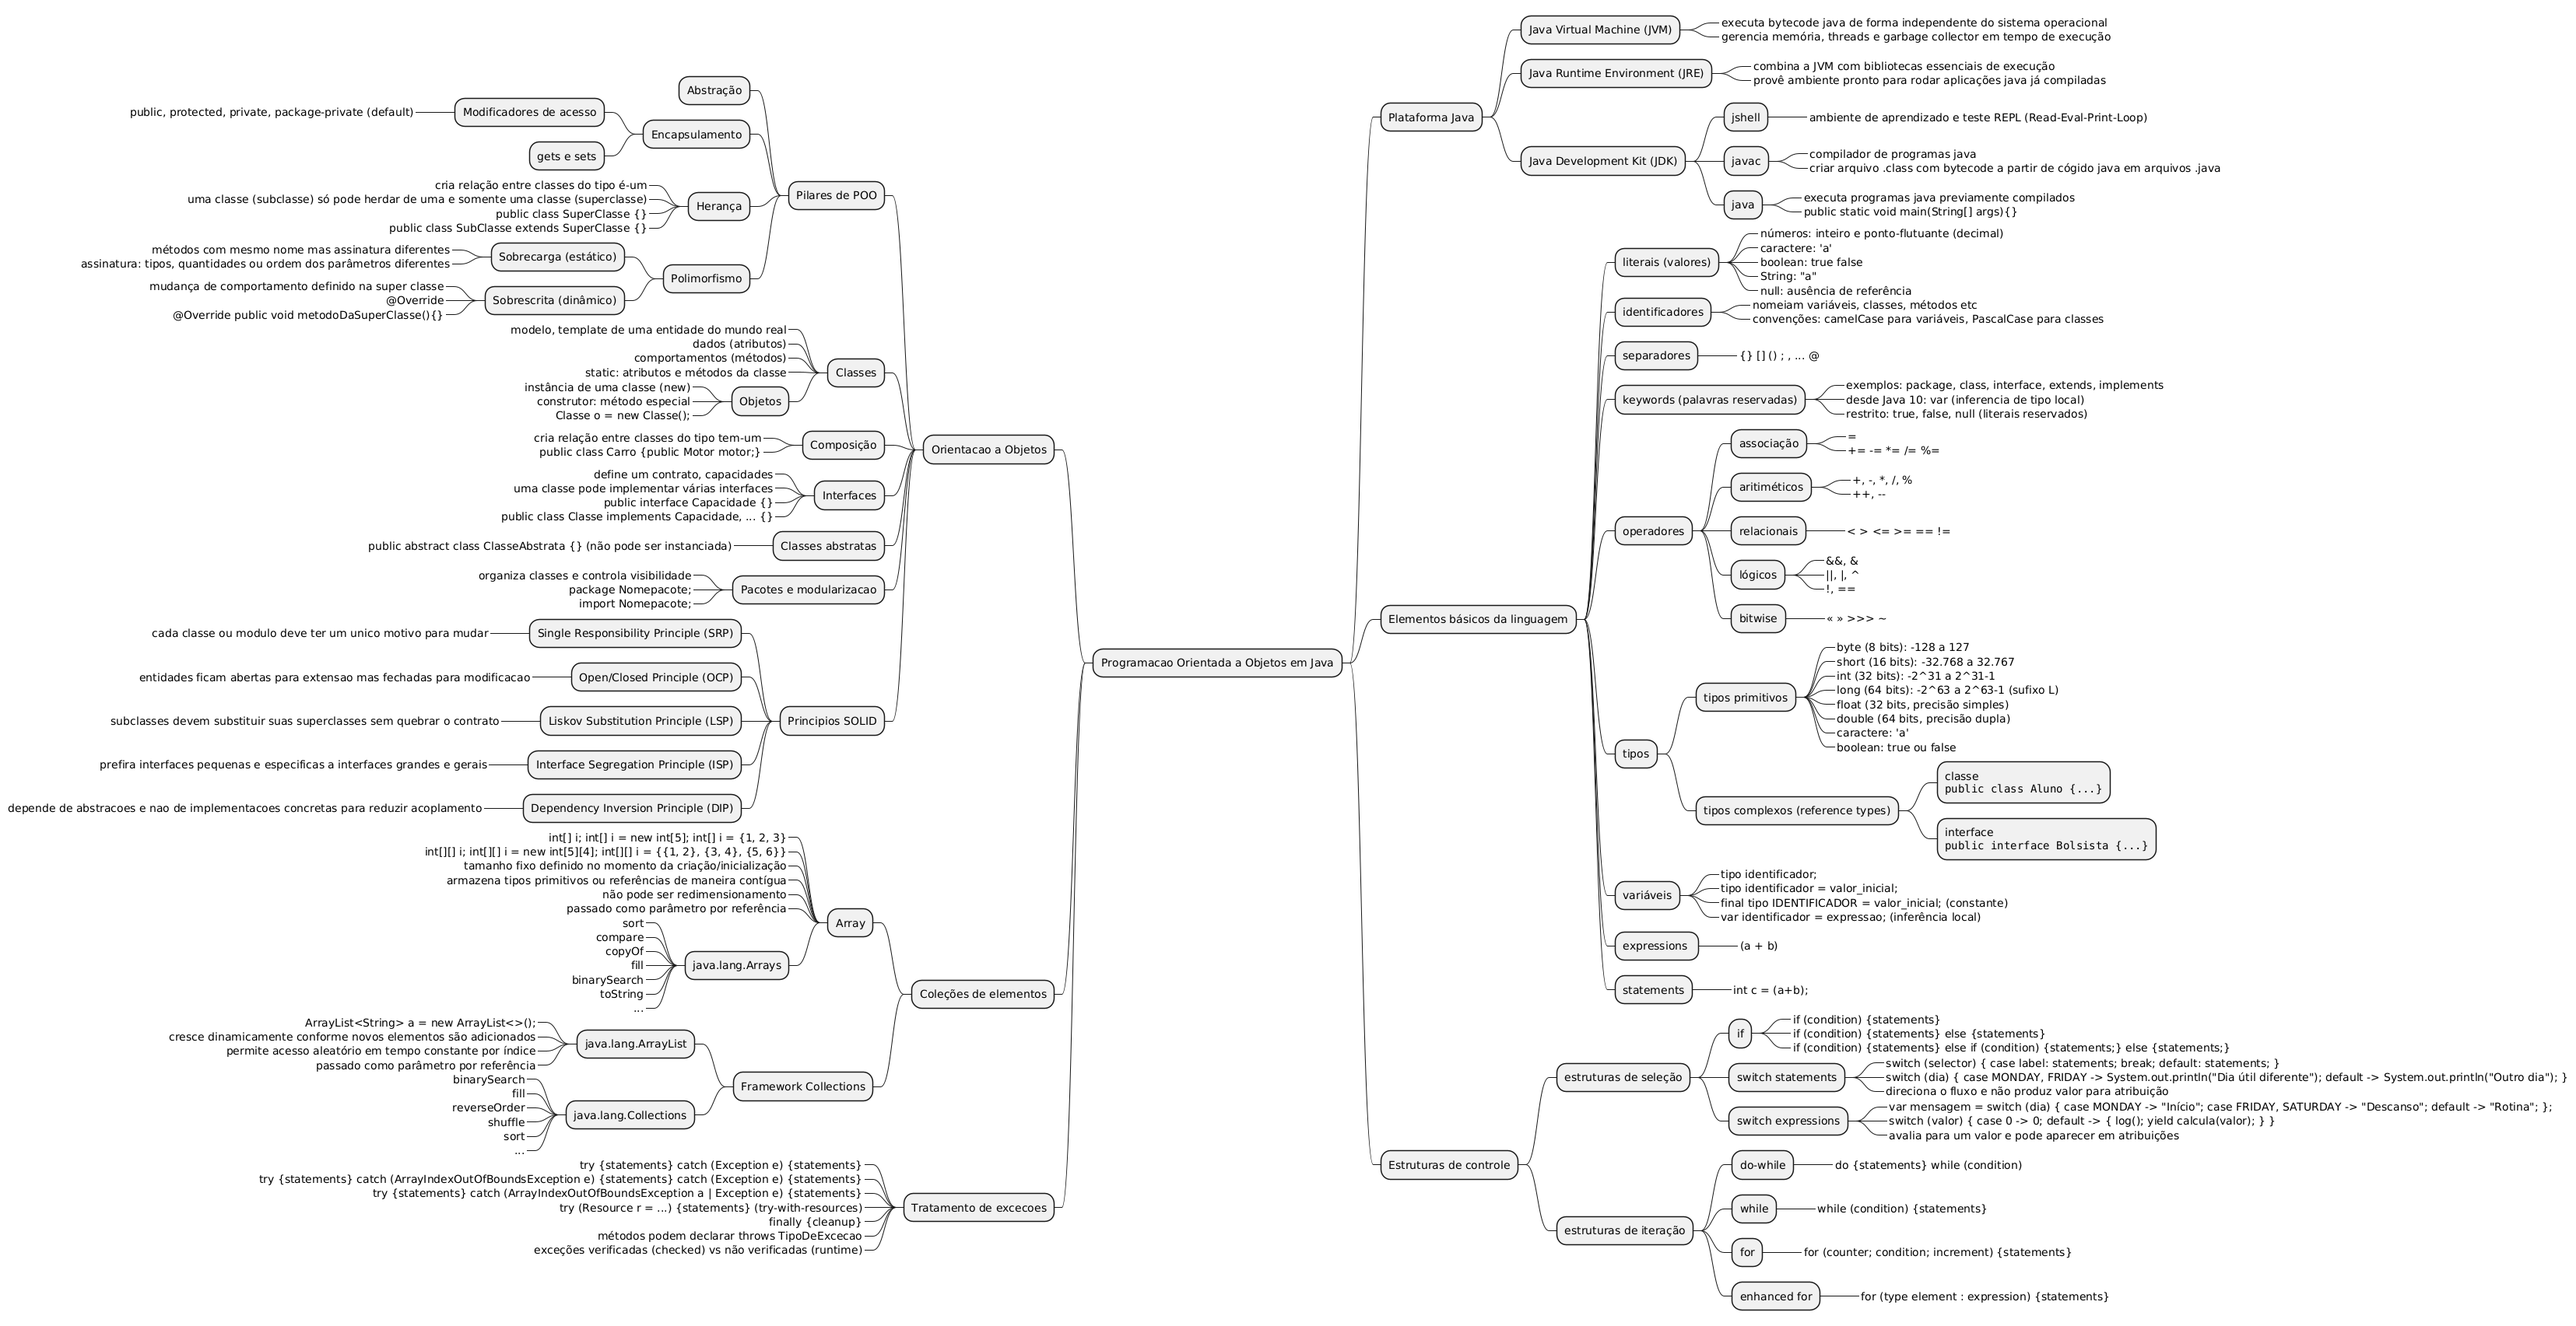
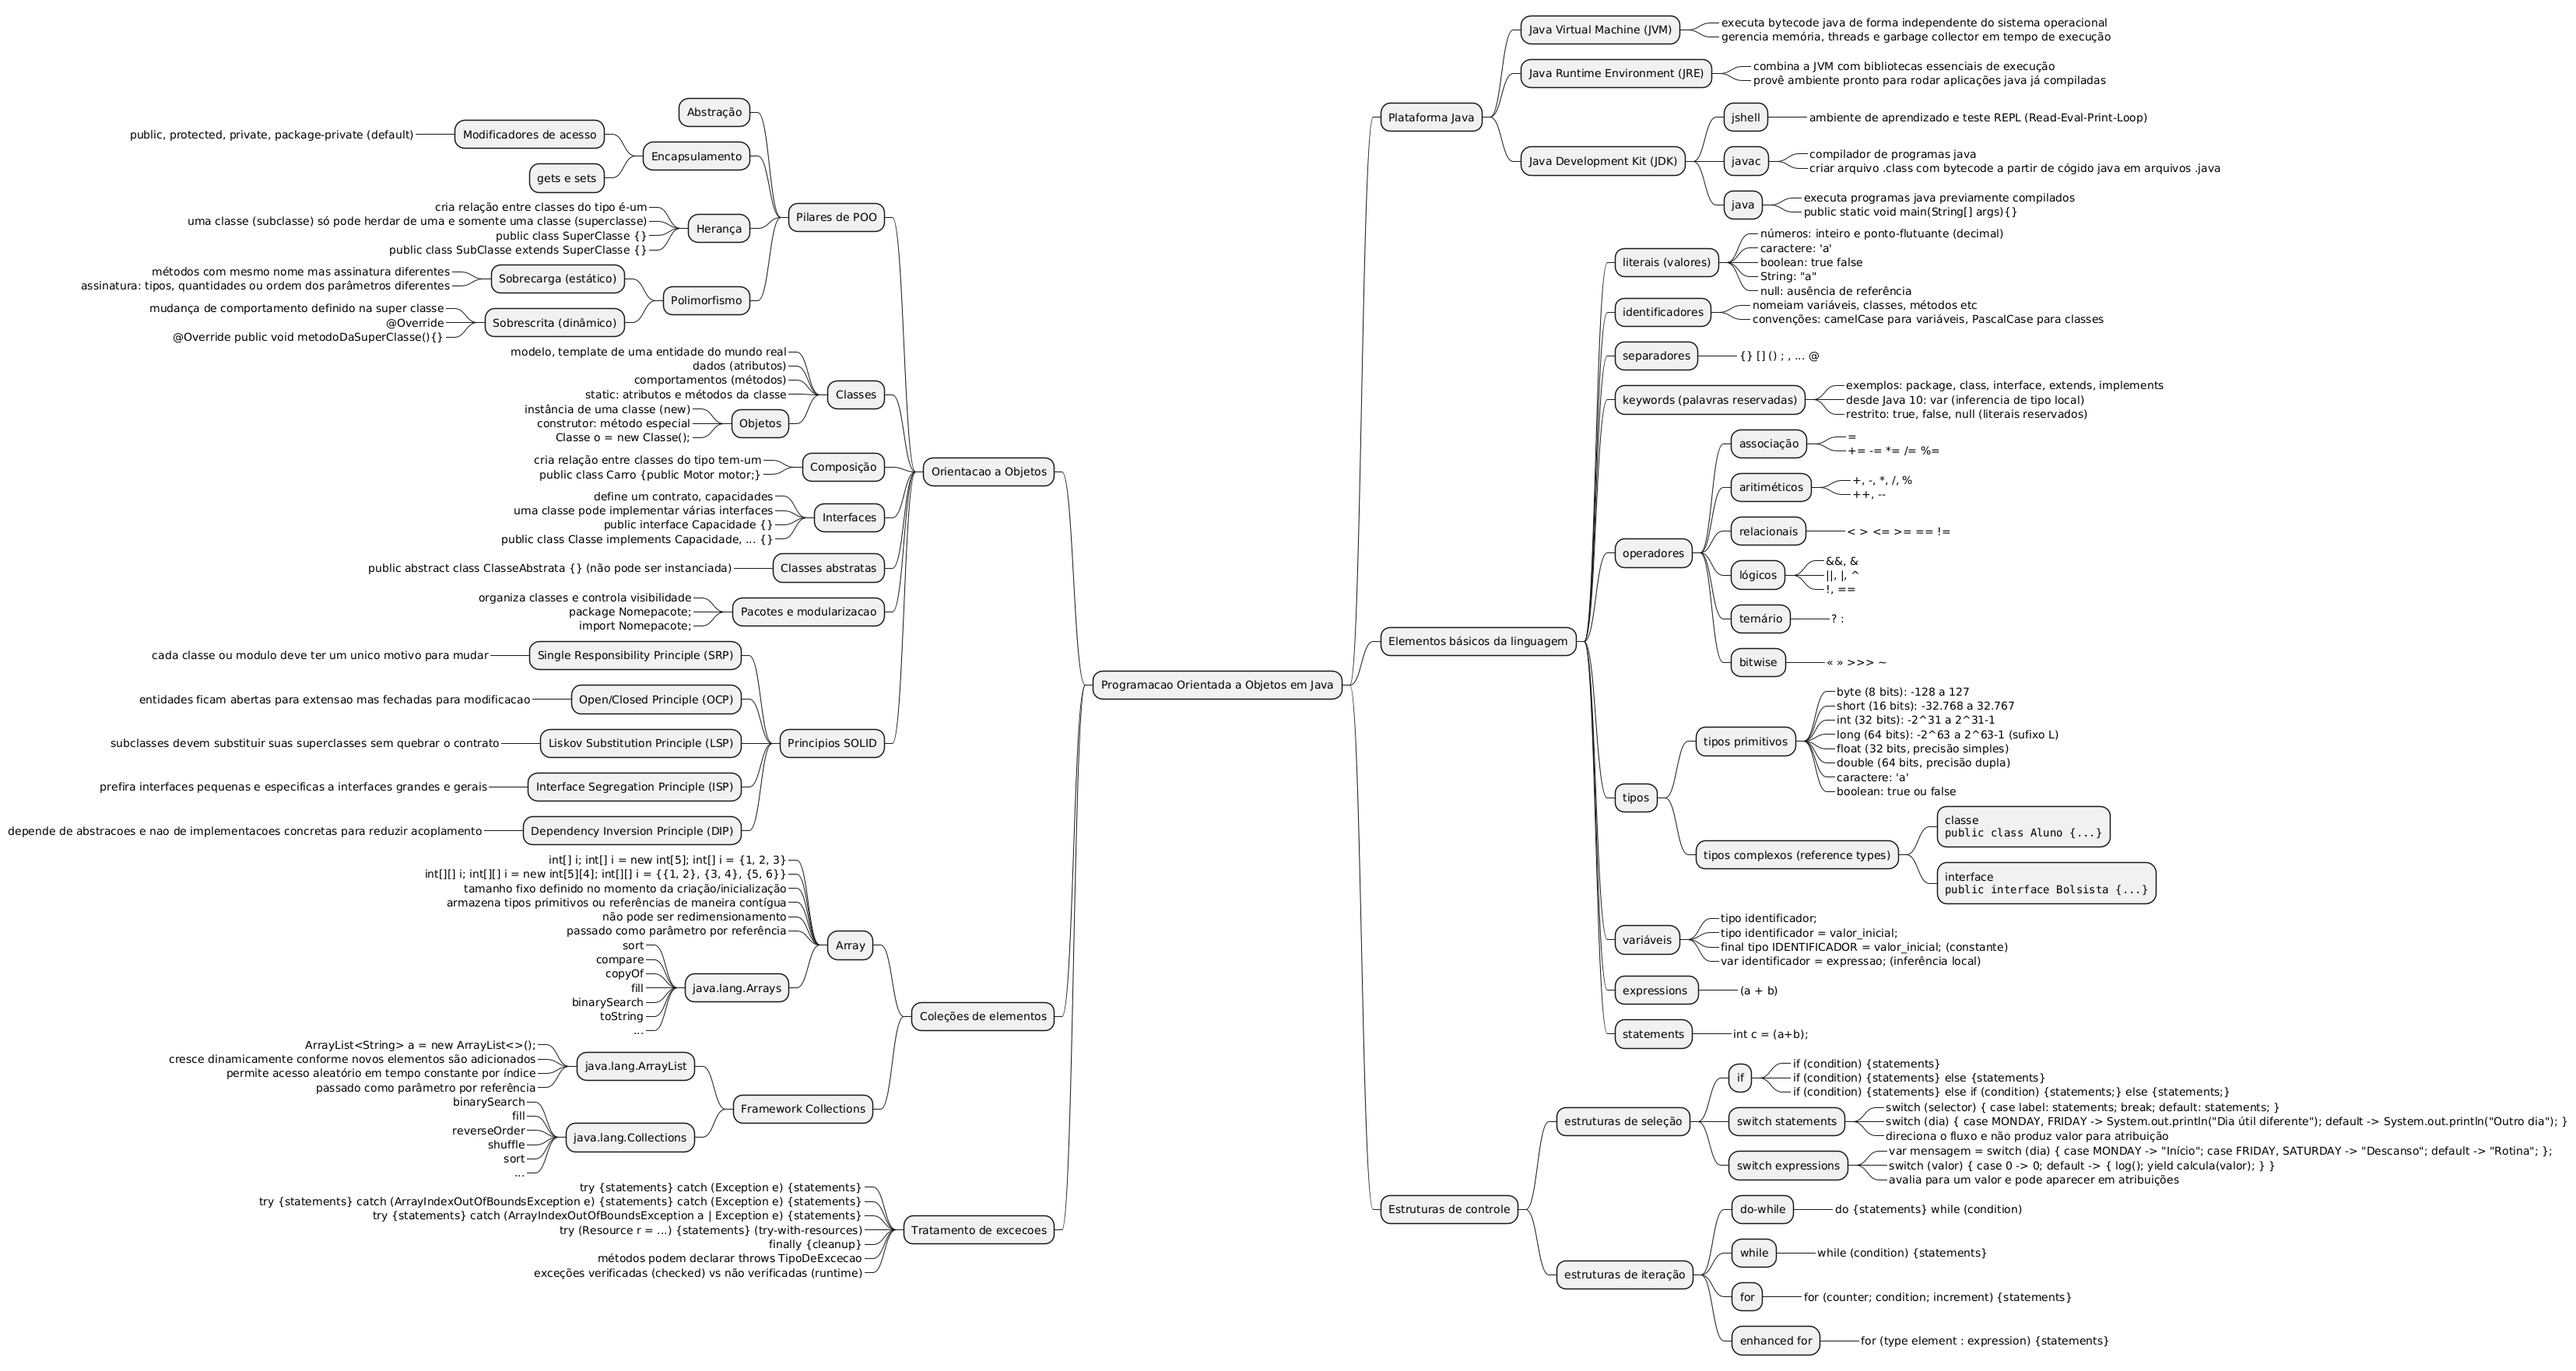
operador ternário

diff --git a/prompts/05-arrays-arraylist.md b/prompts/05-arrays-arraylist.md
@@ -1,0 +1,54 @@
+# Arrays e ArrayList em Java
+
+## Arrays unidimensionais
+
+* Explique como declarar, instanciar e inicializar arrays unidimensionais em Java, incluindo os valores padrão atribuídos pela JVM.
+* Mostre como acessar elementos, percorrer com laços `for` e `enhanced for`, e evitar erros como `ArrayIndexOutOfBoundsException`.
+* Crie exercícios para que o aluno manipule arrays (inversão, busca, contagem de ocorrências) usando apenas recursos básicos da linguagem.
+* Simule um processo de depuração em que um array não é inicializado corretamente e oriente a correção passo a passo com `jshell`.
+* Solicite a implementação de um algoritmo simples (ex.: cálculo de média) e peça para discutir como tratar arrays vazios ou nulos.
+* Reflita: por que arrays continuam úteis em Java mesmo com a disponibilidade de coleções mais flexíveis?
+
+---
+
+## Arrays multidimensionais e utilitários
+
+* Descreva a sintaxe de arrays multidimensionais (`int[][]`) e diferencie arrays retangulares de arrays irregulares.
+* Peça exemplos que preencham e percorram matrizes, mapeando índices para posições lógicas (linhas, colunas).
+* Demonstre o uso da classe `java.util.Arrays` (`sort`, `fill`, `copyOf`, `binarySearch`, `toString`) aplicando cada método em arrays reais.
+* Crie exercícios onde o aluno transforma uma matriz em lista de valores e vice-versa, discutindo usos em algoritmos.
+* Simule um caso de uso que calcule tabelas (ex.: notas de alunos) explorando métodos utilitários para análise.
+* Reflita: quais armadilhas surgem ao trabalhar com arrays multidimensionais e como evitá-las em projetos maiores?
+
+---
+
+## ArrayList e Coleções Dinâmicas
+
+* Explique o que é a classe `ArrayList`, como declará-la com generics e como ela armazena elementos internamente.
+* Demonstre operações básicas (`add`, `get`, `set`, `remove`, `size`, `isEmpty`) e iteração usando laços e `Iterator`.
+* Gere exercícios que peçam a simulação de listas dinâmicas (ex.: carrinho de compras) enfatizando validação de entradas.
+* Mostre como lidar com `ArrayList` de objetos personalizados, incluindo sobrescrita de `equals` e `hashCode` quando relevante.
+* Simule um cenário em que alterações concurrentes causam `ConcurrentModificationException` e apresente estratégias de prevenção.
+* Reflita: como o `ArrayList` se integra ao restante do framework Collections em Java?
+
+---
+
+## Comparando Arrays e ArrayList
+
+* Elabore uma tabela comparativa entre arrays e `ArrayList`, destacando diferenças de tamanho, tipos suportados, desempenho e flexibilidade.
+* Demonstre como converter de array para `ArrayList` e vice-versa usando `Arrays.asList`, `List.of`, `toArray` e construtores apropriados.
+* Crie exercícios em que o aluno escolha a estrutura adequada para diferentes requisitos (memória fixa, inserções frequentes, acesso randomico).
+* Analise casos em que arrays primitivos são preferíveis por desempenho e situações em que a flexibilidade do `ArrayList` compensa.
+* Simule uma refatoração que substitui arrays por `ArrayList` e discuta impactos em APIs públicas e compatibilidade.
+* Reflita: quais critérios guiam a decisão entre arrays e listas no design de uma aplicação Java?
+
+---
+
+## Aplicações práticas e desempenho
+
+* Proponha um mini projeto que utilize arrays e `ArrayList` em conjunto (ex.: processamento de notas e geração de relatórios).
+* Explore técnicas de otimização de performance (pré-alocação de arrays, `ensureCapacity` em `ArrayList`, perfis de acesso a dados).
+* Crie exercícios que avaliem a complexidade temporal de operações típicas em arrays e `ArrayList`.
+* Simule testes unitários cobrindo casos de borda (listas vazias, inserções massivas, valores nulos) e discuta como assegurar robustez.
+* Solicite a elaboração de um estudo de caso em que a escolha da estrutura incorreta gera gargalos e mostre como corrigi-los.
+* Reflita: como medições empíricas (benchmarks) embasam decisões de estrutura de dados em aplicações Java reais?
